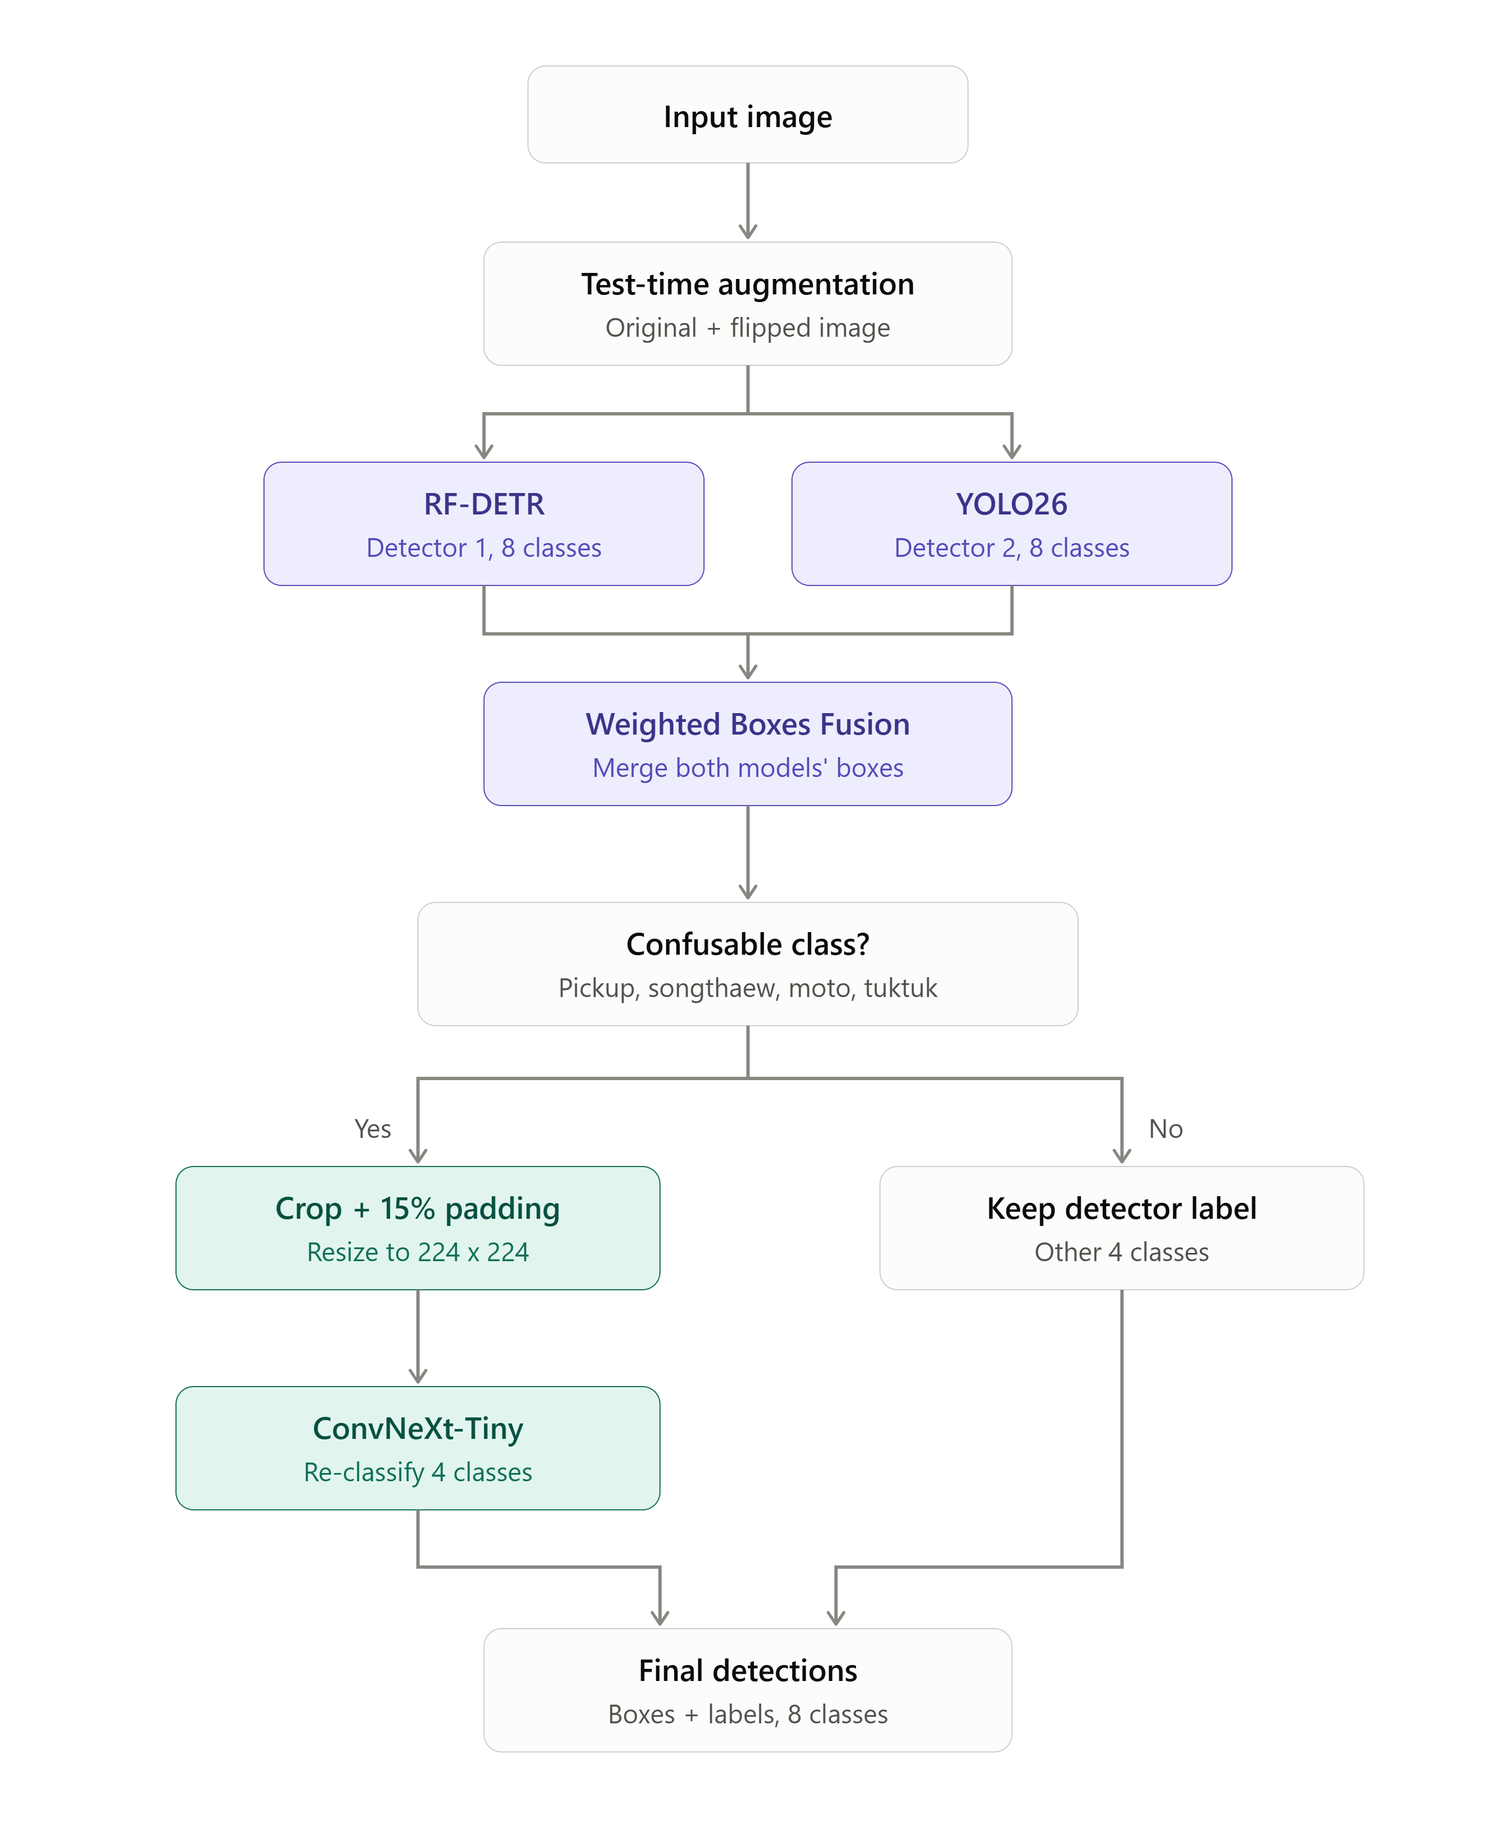
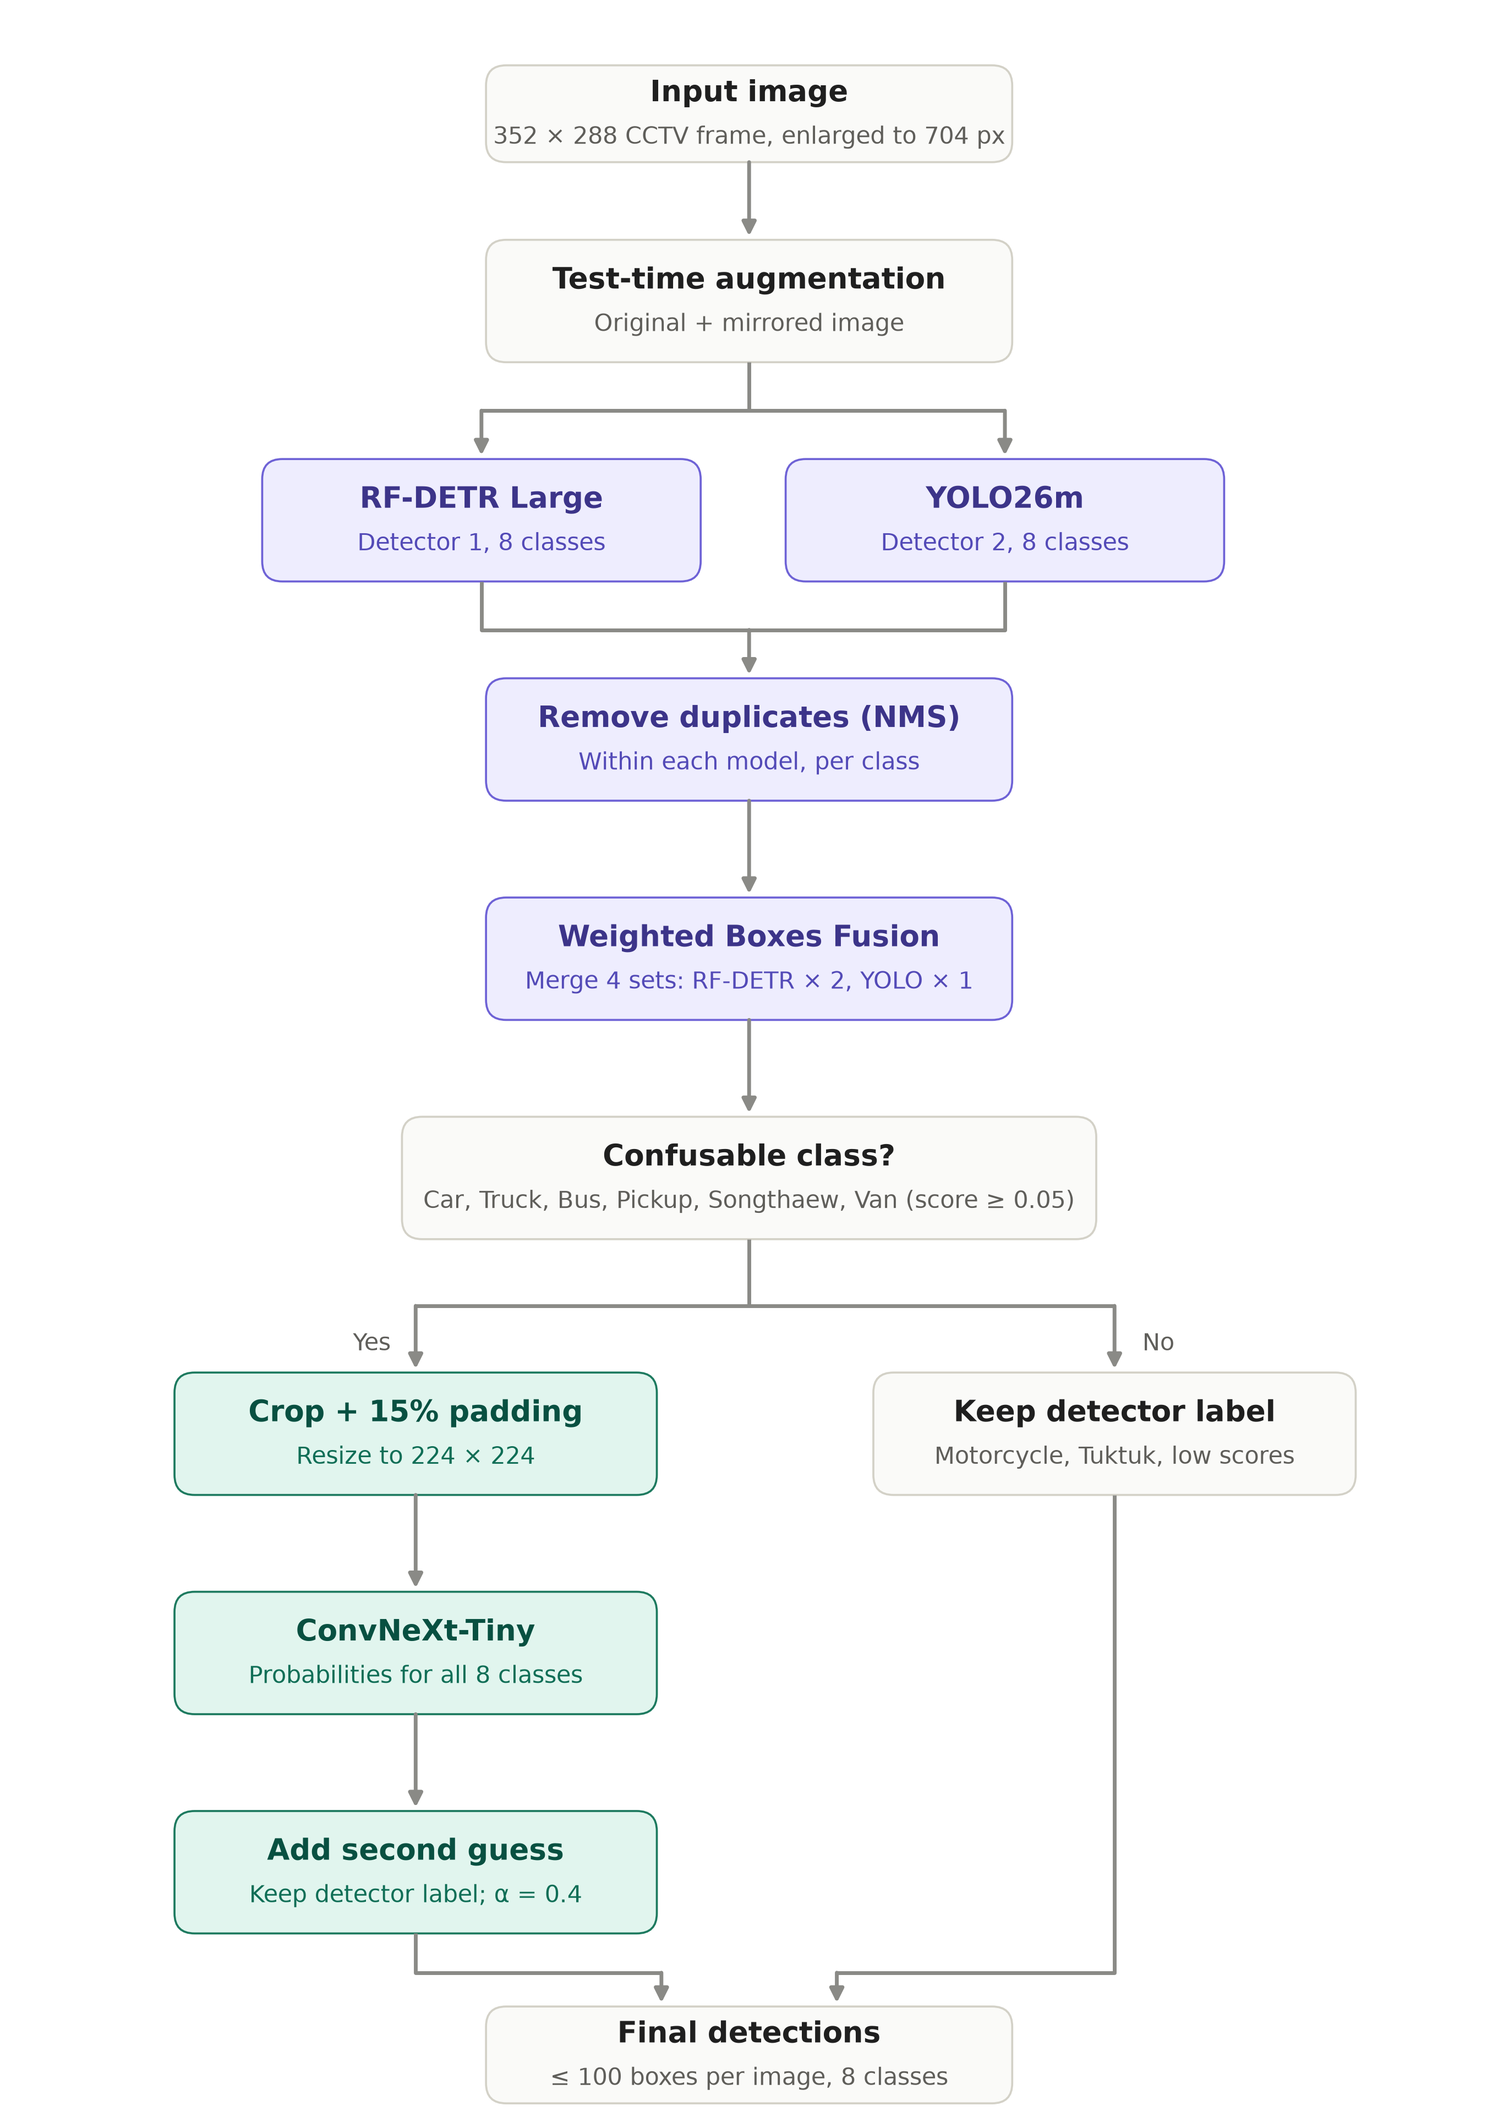
Update README, report and pipeline diagram to the 0.703 setup
README: Round 1/2 commands now match the runs behind the 0.703 public score
(RF-DETR Large 12 epochs, YOLO26m 25 epochs, 8-class classifier on
Car/Truck/Bus/Pickup/Songthaew/Van at alpha 0.4, last-epoch weights in
Round 2), plus the short image_id requirement.

Pipeline diagram redrawn from a script (docs/pipeline_diagram.py): YOLO26m,
per-model NMS before WBF with 2:1 weights, 8-class classifier that adds a
second guess.

Report: Round 2 public score 0.703 (1st place).

diff --git a/docs/pipeline_diagram.py b/docs/pipeline_diagram.py
@@ -1,0 +1,99 @@
+"""Draw docs/thai_vehicle_detection_pipeline.png (the inference pipeline as it runs for the final submission).
+
+    python docs/pipeline_diagram.py
+"""
+from pathlib import Path
+
+import matplotlib
+
+matplotlib.use("Agg")
+import matplotlib.pyplot as plt
+from matplotlib.patches import FancyBboxPatch
+
+W, H = 1640, 2330  # canvas in drawing units (y grows downward)
+OUT = Path(__file__).with_name("thai_vehicle_detection_pipeline.png")
+
+STYLES = {  # fill, edge, title colour, subtitle colour
+    "plain": ("#FAFAF8", "#D3D1C7", "#1F1F1F", "#5F5E5A"),
+    "model": ("#EEEDFE", "#6E62D6", "#3C3489", "#534AB7"),
+    "cls": ("#E1F5EE", "#1D7A5F", "#085041", "#0F6E56"),
+}
+ARROW = "#8A8A86"
+
+
+def box(ax, cx, cy, w, h, title, sub, style="plain"):
+    fill, edge, tcol, scol = STYLES[style]
+    ax.add_patch(FancyBboxPatch((cx - w / 2, cy - h / 2), w, h, boxstyle="round,pad=0,rounding_size=22",
+                                fc=fill, ec=edge, lw=1.6))
+    ax.text(cx, cy - 22, title, ha="center", va="center", fontsize=23, fontweight="semibold", color=tcol)
+    ax.text(cx, cy + 26, sub, ha="center", va="center", fontsize=18.5, color=scol)
+    return {"top": cy - h / 2, "bottom": cy + h / 2, "x": cx}
+
+
+def path(ax, pts, arrow=True):
+    xs, ys = zip(*pts)
+    ax.plot(xs[:-1] if arrow else xs, ys[:-1] if arrow else ys, color=ARROW, lw=3, solid_capstyle="butt")
+    if arrow:
+        ax.annotate("", xy=pts[-1], xytext=pts[-2],
+                    arrowprops=dict(arrowstyle="-|>,head_length=0.9,head_width=0.45", color=ARROW, lw=3,
+                                    shrinkA=0, shrinkB=0))
+
+
+def label(ax, x, y, text):
+    ax.text(x, y, text, ha="center", va="center", fontsize=18.5, color="#5F5E5A")
+
+
+def main():
+    fig = plt.figure(figsize=(W / 100, H / 100), dpi=100)
+    ax = fig.add_axes([0, 0, 1, 1])
+    ax.set_xlim(0, W)
+    ax.set_ylim(H, 0)
+    ax.axis("off")
+    fig.patch.set_facecolor("white")
+
+    cx, left, right = W / 2, 527, 1100
+    inp = box(ax, cx, 125, 576, 106,"Input image", "352 × 288 CCTV frame, enlarged to 704 px")
+    tta = box(ax, cx, 330, 576, 134, "Test-time augmentation", "Original + mirrored image")
+    rf = box(ax, left, 570, 480, 134, "RF-DETR Large", "Detector 1, 8 classes", "model")
+    yo = box(ax, right, 570, 480, 134, "YOLO26m", "Detector 2, 8 classes", "model")
+    nms = box(ax, cx, 810, 576, 134, "Remove duplicates (NMS)", "Within each model, per class", "model")
+    wbf = box(ax, cx, 1050, 576, 134, "Weighted Boxes Fusion", "Merge 4 sets: RF-DETR × 2, YOLO × 1", "model")
+    dec = box(ax, cx, 1290, 760, 134, "Confusable class?",
+              "Car, Truck, Bus, Pickup, Songthaew, Van (score ≥ 0.05)")
+    crop = box(ax, 455, 1570, 528, 134, "Crop + 15% padding", "Resize to 224 × 224", "cls")
+    conv = box(ax, 455, 1810, 528, 134, "ConvNeXt-Tiny", "Probabilities for all 8 classes", "cls")
+    add = box(ax, 455, 2050, 528, 134, "Add second guess", "Keep detector label; α = 0.4", "cls")
+    keep = box(ax, 1220, 1570, 528, 134, "Keep detector label", "Motorcycle, Tuktuk, low scores")
+    fin = box(ax, cx, 2250, 576, 106, "Final detections", "≤ 100 boxes per image, 8 classes")
+
+    path(ax, [(cx, inp["bottom"]), (cx, tta["top"] - 4)])
+    split = (tta["bottom"] + rf["top"]) / 2
+    path(ax, [(cx, tta["bottom"]), (cx, split)], arrow=False)
+    path(ax, [(left, split), (right, split)], arrow=False)
+    path(ax, [(left, split), (left, rf["top"] - 4)])
+    path(ax, [(right, split), (right, yo["top"] - 4)])
+    join = (rf["bottom"] + nms["top"]) / 2
+    path(ax, [(left, rf["bottom"]), (left, join), (right, join), (right, yo["bottom"])], arrow=False)
+    path(ax, [(cx, join), (cx, nms["top"] - 4)])
+    path(ax, [(cx, nms["bottom"]), (cx, wbf["top"] - 4)])
+    path(ax, [(cx, wbf["bottom"]), (cx, dec["top"] - 4)])
+
+    fork = (dec["bottom"] + crop["top"]) / 2
+    path(ax, [(cx, dec["bottom"]), (cx, fork)], arrow=False)
+    path(ax, [(crop["x"], fork), (keep["x"], fork)], arrow=False)
+    path(ax, [(crop["x"], fork), (crop["x"], crop["top"] - 4)])
+    path(ax, [(keep["x"], fork), (keep["x"], keep["top"] - 4)])
+    label(ax, crop["x"] - 48, fork + 42, "Yes")
+    label(ax, keep["x"] + 48, fork + 42, "No")
+
+    path(ax, [(crop["x"], crop["bottom"]), (crop["x"], conv["top"] - 4)])
+    path(ax, [(conv["x"], conv["bottom"]), (conv["x"], add["top"] - 4)])
+    path(ax, [(add["x"], add["bottom"]), (add["x"], 2160), (cx - 96, 2160), (cx - 96, fin["top"] - 4)])
+    path(ax, [(keep["x"], keep["bottom"]), (keep["x"], 2160), (cx + 96, 2160), (cx + 96, fin["top"] - 4)])
+
+    fig.savefig(OUT, dpi=166, facecolor="white")
+    print(f"Wrote {OUT}")
+
+
+if __name__ == "__main__":
+    main()

diff --git a/README.md b/README.md
@@ -3,6 +3,9 @@
 Take-home midterm for 2110531 Data Science and Data Engineering Tools (2026/1).
 The task is 8-class vehicle detection on Bangkok (BMA) traffic camera images, scored on Kaggle with **mAP@50** (pycocotools).
 
+**Result:** 0.703 mAP@50 on the Kaggle public leaderboard (`submissions/wbf_final_c8big_a0.4.csv`).
+The full write-up (data handling, both rounds, ablations) is in [docs/report.md](docs/report.md).
+
 ## Contents
 
 1. [Dataset](#1-dataset)
@@ -54,10 +57,13 @@ Things to know about the data:
 | Stage | What it does | Script |
 |---|---|---|
 | Detector 1: **RF-DETR Large** | Transformer detector, 8 classes | `train_rfdetr.py` |
-| Detector 2: **YOLO26l** | CNN detector, 8 classes; makes different mistakes than RF-DETR | `train_yolo.py` |
+| Detector 2: **YOLO26m** | CNN detector, 8 classes; makes different mistakes than RF-DETR | `train_yolo.py` |
 | **Flip TTA** | Each detector also predicts on the mirrored image; boxes are mirrored back | `predict_detector.py` |
-| **Weighted Boxes Fusion** | Merges all 4 prediction sets (2 models × original/flipped) into one | `fuse.py` |
-| **ConvNeXt-Tiny classifier** | Looks again at boxes labelled Motorcycle / Tuktuk / Pickup / Songthaew | `train_classifier.py`, `reclassify.py` |
+| **Remove duplicates (NMS)** | Per model and class, before fusion | `fuse.py` |
+| **Weighted Boxes Fusion** | Merges all 4 prediction sets (2 models × original/flipped) into one, RF-DETR weighted 2, YOLO 1 | `fuse.py` |
+| **ConvNeXt-Tiny classifier** | Knows all 8 classes; looks again at boxes labelled Car / Truck / Bus / Pickup / Songthaew / Van and adds a second guess (alpha 0.4) | `train_classifier.py`, `reclassify.py` |
+
+The diagram is drawn by `docs/pipeline_diagram.py`.
 
 Each stage writes its predictions to `preds/<name>/val.csv` and `test.csv`, so every stage can be scored on
 its own and a stage is kept only if it raises the validation mAP50.
@@ -106,53 +112,61 @@ Run every command from the repo root with the `vehicle-det` environment active.
 There are two rounds: **experiment** models (trained without the 3 validation cameras, used to measure and tune)
 and **final** models (same settings, trained on all 15 cameras, used for Kaggle).
 
-### Round 1: experiment models (about 3–4 hours on the RTX 5090)
+The epoch counts are short on purpose. Round 2 has no clean validation set, so it uses the **last** epoch;
+in round 1, RF-DETR at 40 epochs peaked at epoch 6 and then lost 0.06 mAP50, while 12 epochs ends at its best
+(details in `docs/report.md`, section 3.5).
+
+### Round 1: experiment models (about 25 minutes on the RTX 5090)
 
 ```
 python src/prepare_data.py                                    # datasets/yolo + datasets/rfdetr
 
-python src/train_rfdetr.py --name rfdl_704                    # ~1.5 h  -> runs/rfdl_704/checkpoint_best_total.pth
-python src/train_yolo.py   --name y26l_704                    # ~1.5 h  -> runs/y26l_704/weights/best.pt
-python src/train_classifier.py --name cls_convnext            # ~10 min -> runs/cls_convnext/best.pt
+python src/train_rfdetr.py --epochs 12 --name rfdl_e12                         # ~10 min
+python src/train_yolo.py --model yolo26m.pt --epochs 25 --name y26m_e25        # ~8 min
+python src/train_classifier.py --classes Car Motorcycle Bus Truck Tuktuk Van Pickup Songthaew \
+    --samples-per-epoch 12000 --name cls_all8                                  # ~3 min
 
-python src/predict_detector.py --weights runs/rfdl_704/checkpoint_best_total.pth
-python src/predict_detector.py --weights runs/y26l_704/weights/best.pt
-python src/fuse.py --runs rfdl_704 y26l_704 --weights 2 1 --out wbf_exp
-python src/reclassify.py --preds wbf_exp --classifier runs/cls_convnext/best.pt --alpha 0 0.2 0.4 0.6
+python src/predict_detector.py --weights runs/rfdl_e12/checkpoint_best_total.pth
+python src/predict_detector.py --weights runs/y26m_e25/weights/last.pt --name y26m_e25_last
+python src/fuse.py --runs rfdl_e12 y26m_e25_last --weights 2 1 --out wbf_new
+python src/reclassify.py --preds wbf_new --classifier runs/cls_all8/best.pt \
+    --apply-to Car Truck Bus Pickup Songthaew Van --alpha 0.2 0.4 --out wbf_new_c8big
+python src/evaluate.py --preds wbf_new wbf_new_c8big_a0.2 wbf_new_c8big_a0.4   # val mAP50 0.676 / 0.683 / 0.688
 ```
 
-Then compare the stages (section 5) and pick the best fusion weights and alpha.
-A first Kaggle submission can already be made from these models:
+`yolo26m.pt` is downloaded by Ultralytics on first use.
 
-```
-python src/make_submission.py --preds rfdl_704                # writes submissions/rfdl_704.csv
-```
+### Round 2: final models on all 15 cameras (about 25 minutes on the RTX 5090)
 
-### Round 2: final models (about 3–4 hours on the RTX 5090)
+Same settings. `--patience 100` keeps early stopping off, and the last-epoch weights are used
+(`last_ema.pth`, `last.pt`), because the validation cameras are now part of training.
 
 ```
 python src/prepare_data.py --full                             # datasets/yolo_full + datasets/rfdetr_full
 
-python src/train_rfdetr.py --data datasets/rfdetr_full --name rfdl_704_full
-python src/train_yolo.py   --data datasets/yolo_full/data.yaml --name y26l_704_full
-python src/train_classifier.py --full --name cls_convnext_full
+python src/train_rfdetr.py --data datasets/rfdetr_full --epochs 12 --name rfdl_e12_full
+python src/train_yolo.py --model yolo26m.pt --data datasets/yolo_full/data.yaml --epochs 25 --patience 100 \
+    --name y26m_e25_full
+python src/train_classifier.py --full --classes Car Motorcycle Bus Truck Tuktuk Van Pickup Songthaew \
+    --samples-per-epoch 12000 --name cls_all8_full
 
-python src/predict_detector.py --weights runs/rfdl_704_full/checkpoint_best_total.pth --splits test
-python src/predict_detector.py --weights runs/y26l_704_full/weights/best.pt --splits test
-python src/fuse.py --runs rfdl_704_full y26l_704_full --weights 2 1 --out wbf_final --splits test
-python src/reclassify.py --preds wbf_final --classifier runs/cls_convnext_full/best.pt --alpha 0.4 --splits test
-python src/make_submission.py --preds wbf_final_cls_a0.4
+python src/predict_detector.py --weights runs/rfdl_e12_full/last_ema.pth --name rfdl_e12_full --splits test
+python src/predict_detector.py --weights runs/y26m_e25_full/weights/last.pt --name y26m_e25_full --splits test
+python src/fuse.py --runs rfdl_e12_full y26m_e25_full --weights 2 1 --out wbf_final --splits test
+python src/reclassify.py --preds wbf_final --classifier runs/cls_all8_full/best.pt \
+    --apply-to Car Truck Bus Pickup Songthaew Van --alpha 0.4 --splits test --out wbf_final_c8big
+python src/make_submission.py --preds wbf_final_c8big_a0.4    # -> submissions/wbf_final_c8big_a0.4.csv (public 0.703)
 ```
 
-Use the fusion weights, alpha and stages that won in round 1. If a stage did not help, skip it and
-submit the previous stage's folder instead (for example `--preds wbf_final`).
+**`image_id` must be the short test file name** (`1068_20260825_060110.jpg`), which `make_submission.py`
+writes. The long Thai ids shown in `sample_submission.csv` score exactly 0 on Kaggle.
 
 ## 5. Comparing stages (ablation)
 
 ```
-python src/fuse.py --runs rfdl_704 --no-tta --out rfdl_704_wbf --splits val   # RF-DETR, duplicates removed
-python src/fuse.py --runs rfdl_704 --out rfdl_704_tta --splits val            # + flip TTA
-python src/evaluate.py --preds rfdl_704 y26l_704 rfdl_704_wbf rfdl_704_tta wbf_exp wbf_exp_cls_a0.2 wbf_exp_cls_a0.4
+python src/fuse.py --runs rfdl_e12 --no-tta --out rfdl_e12_wbf --splits val    # RF-DETR, duplicates removed
+python src/fuse.py --runs rfdl_e12 --out rfdl_e12_tta --splits val             # + flip TTA
+python src/evaluate.py --preds rfdl_e12 rfdl_e12_wbf rfdl_e12_tta y26m_e25_last wbf_new wbf_new_c8big_a0.4
 ```
 
 `evaluate.py` prints one row per stage:
@@ -171,14 +185,14 @@ A smoke test with 1-epoch models confirmed each stage adds a little: RF-DETR 0.4
 
 | Setting | RF-DETR | YOLO26 | Classifier |
 |---|---|---|---|
-| Model | RF-DETR Large (DINOv2-S backbone, 34M params, COCO-pretrained at 704 px) | YOLO26l (COCO-pretrained) | ConvNeXt-Tiny (ImageNet-pretrained, `timm`) |
+| Model | RF-DETR Large (DINOv2-S backbone, 34M params, COCO-pretrained at 704 px) | YOLO26m (COCO-pretrained) | ConvNeXt-Tiny (ImageNet-pretrained, `timm`), all 8 classes |
 | Input | 704 px (images enlarged 2×, objects are tiny) | 704 px | box + 15% padding, resized to 224 |
-| Epochs | 40 (on the oversampled set ≈ 53 original-size epochs) | 60, early stop after 20 | 15 × 6,000 crops |
+| Epochs | 12 (`--epochs 12`; the script default of 40 overfits) | 25 (`--epochs 25`) | 15 × 12,000 crops |
 | Batch | 16, lr 1e-4 (backbone 1.5e-4) | 16 (Ultralytics accumulates to an effective 64) | 64 |
-| LR schedule | cosine, 1 warm-up epoch (default "step" would never decay within 40 epochs) | cosine | one-cycle |
+| LR schedule | cosine, 1 warm-up epoch (default "step" would never decay) | cosine | one-cycle |
 | Augmentation | h-flip, brightness/contrast, colour shift (day/night/rain); no rotation or v-flip | mosaic (off last 10 epochs), h-flip, HSV, milder zoom (`scale` 0.3) | random box shift/resize, h-flip, colour jitter |
 | Imbalance | repeat-factor oversampling in `prepare_data.py` | same | rare classes sampled more (`--balance 0.5`) |
-| Notes | EMA weights, best epoch by val mAP50:95 | | best epoch by val balanced accuracy |
+| Weights used | EMA; round 2: last epoch (`last_ema.pth`) | round 2: last epoch (`last.pt`) | best val epoch; round 2: last epoch |
 
 **Oversampling.** `prepare_data.py` copies every train image that contains a rare class 2–4 times
 (repeat-factor sampling, `--repeat-thr 0.3`). All boxes in a copied image stay labelled, so no vehicle is
@@ -192,7 +206,8 @@ Submissions keep at most 100 boxes per image (pycocotools ignores the rest). Eve
 ## 7. Project structure
 
 ```
-docs/                    competition PDF, train.csv, sample_submission.csv, pipeline design
+docs/                    competition PDF, train.csv, sample_submission.csv, pipeline design,
+                         report.md (results write-up), pipeline_diagram.py (draws the pipeline PNG)
 original-data/           Kaggle train and test images
 src/
   common.py              paths, class names, validation cameras, scoring helpers

diff --git a/docs/report.md b/docs/report.md
@@ -2,8 +2,9 @@
 
 As of 2026-10-04. Round 1 (experiment models) and Round 2 (final models) are both finished.
 
-**Result so far:** 0.637 mAP@50 on the Kaggle public leaderboard (3rd place), from a pipeline that scores
-0.693 on the local validation set. Full marks for the mAP part of the grade start at 0.56.
+**Result:** 0.703 mAP@50 on the Kaggle public leaderboard (1st place) with the Round 2 models. The Round 1
+models scored 0.637 public and 0.693 on the local validation set. Full marks for the mAP part of the grade
+start at 0.56.
 
 ## 1. Data handling
 
@@ -200,7 +201,10 @@ There is no local score: the validation cameras are now in training.
 | Submission | Models | Val mAP50 | Kaggle public |
 |---|---|---|---|
 | `wbf_exp_c8big_a0.4.csv` | Round 1 (12 cameras) | 0.693 | 0.637 |
-| `wbf_final_c8big_a0.4.csv` | Round 2 (15 cameras) | – | *to be filled in after upload* |
+| `wbf_final_c8big_a0.4.csv` | Round 2 (15 cameras) | – | **0.703** (1st place) |
+
+Training on all 15 cameras added 0.066 on the public leaderboard. More camera variety is what the unseen
+test cameras need most.
 
 ## 6. Next steps
 
